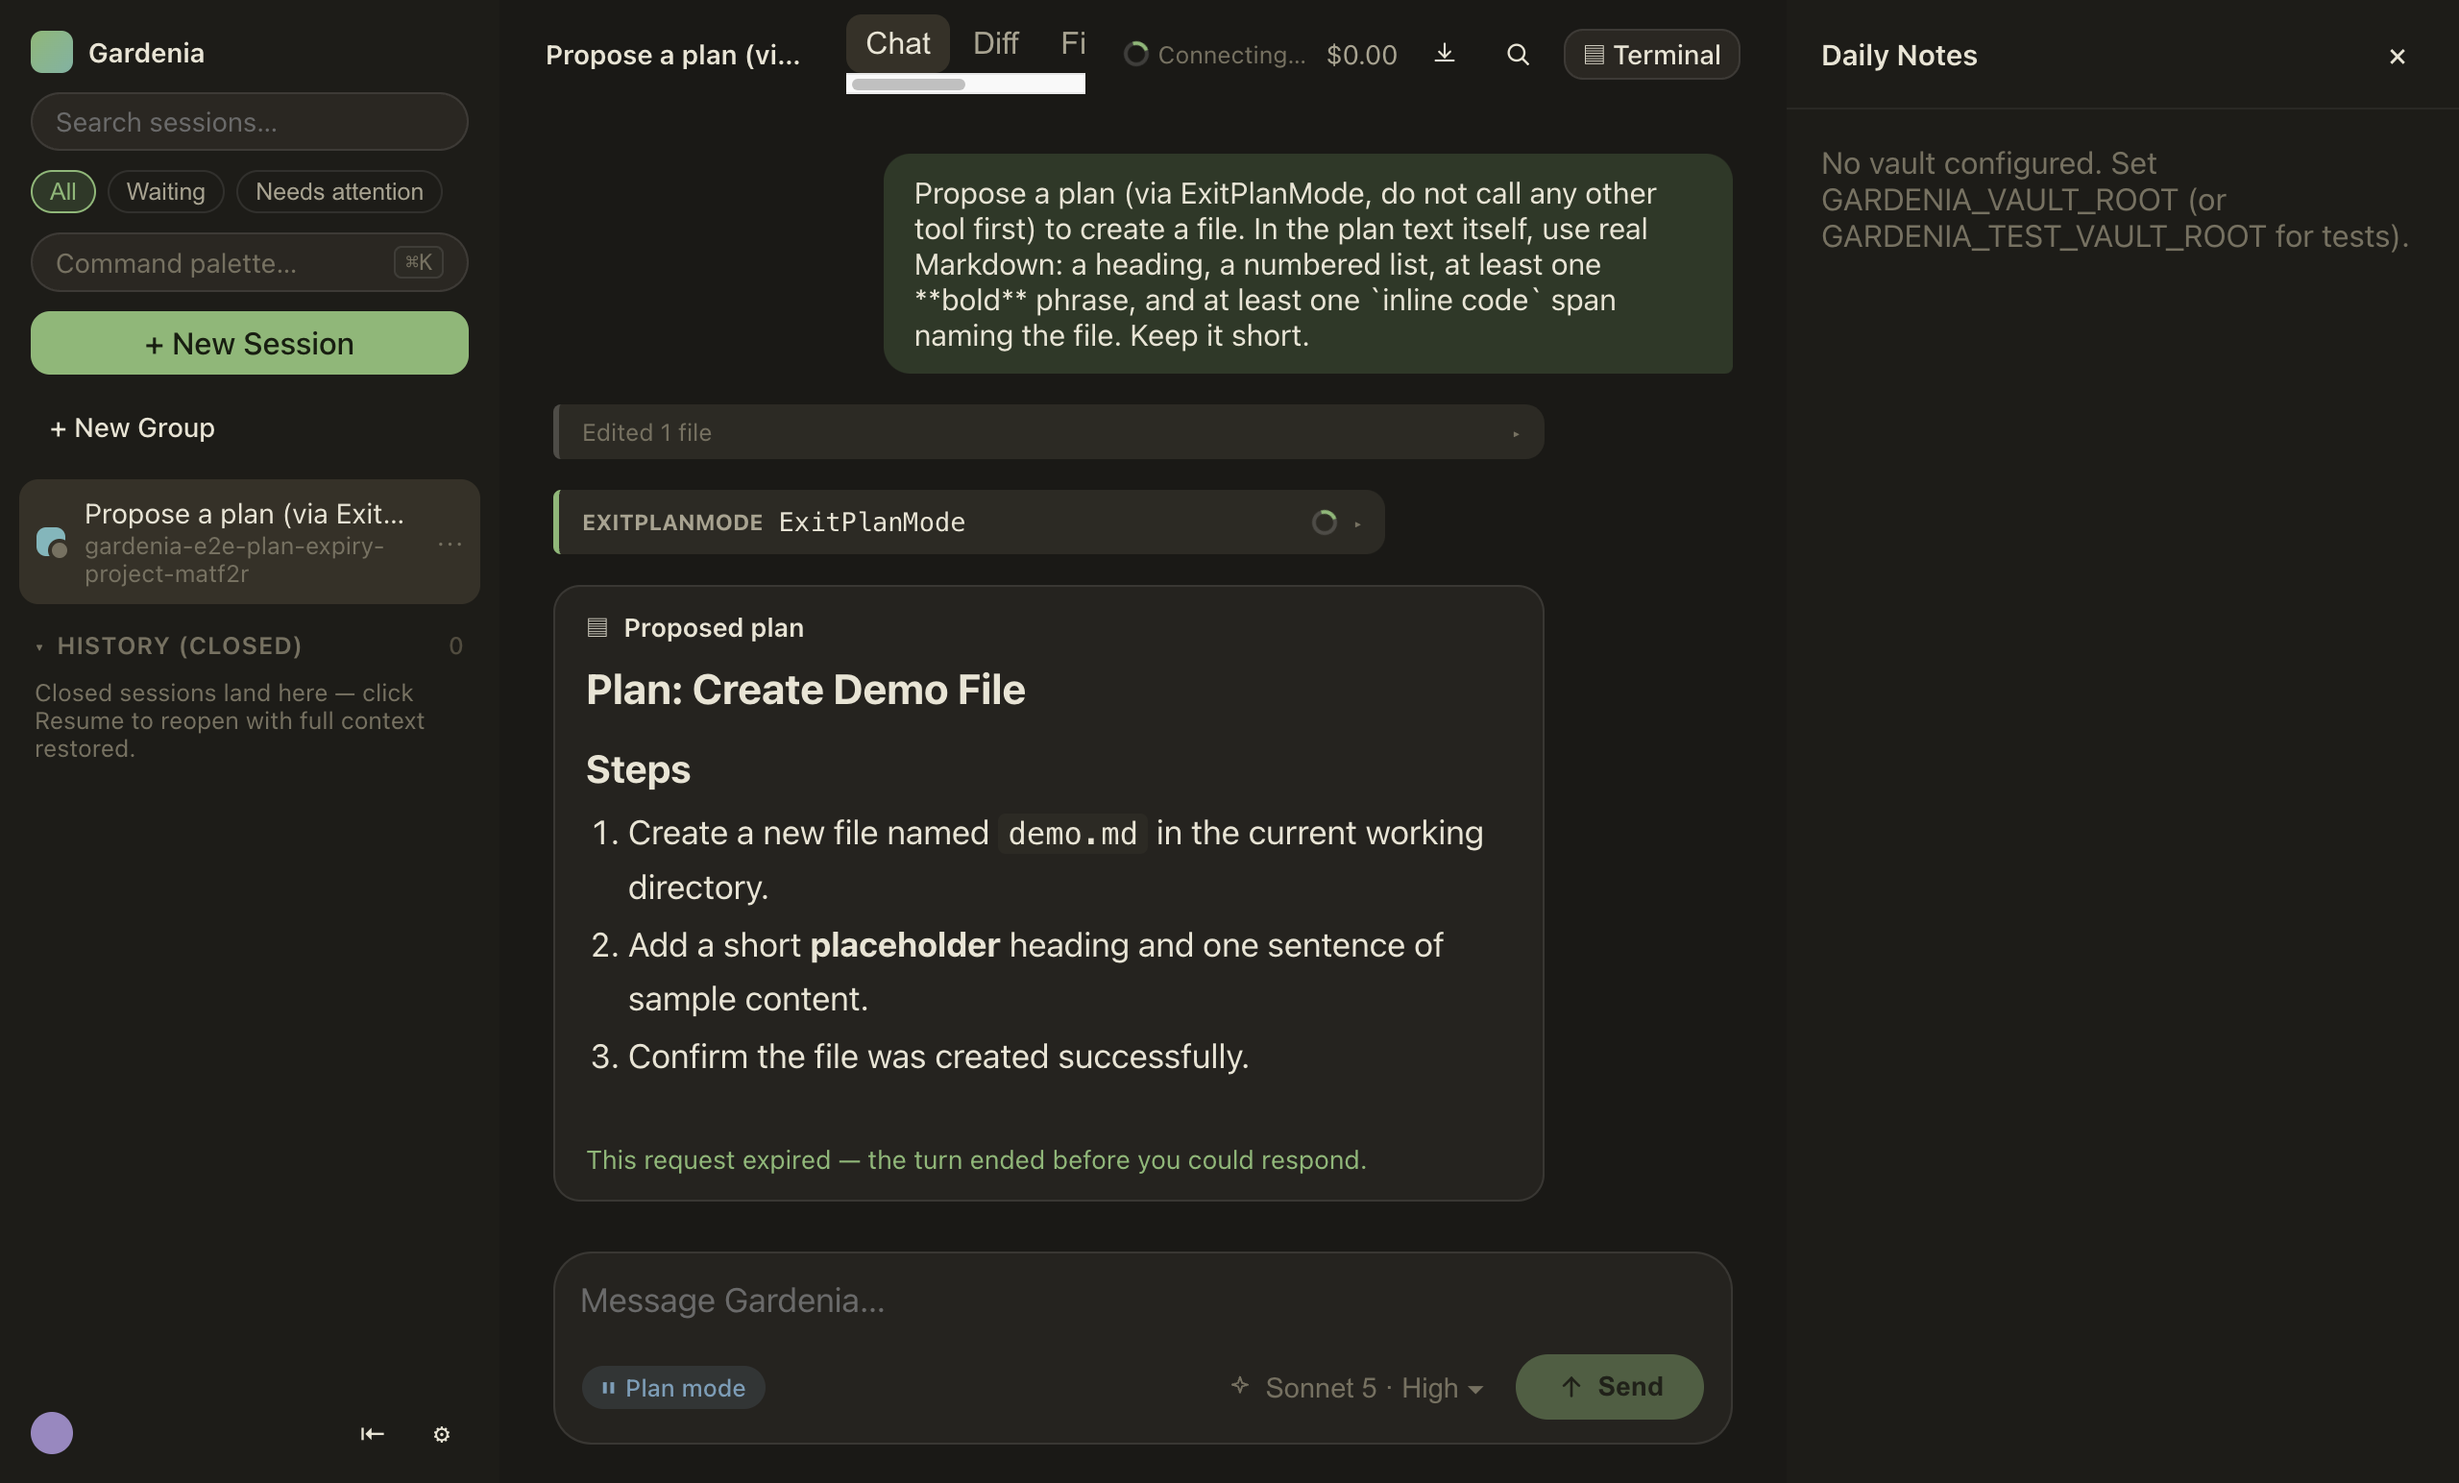
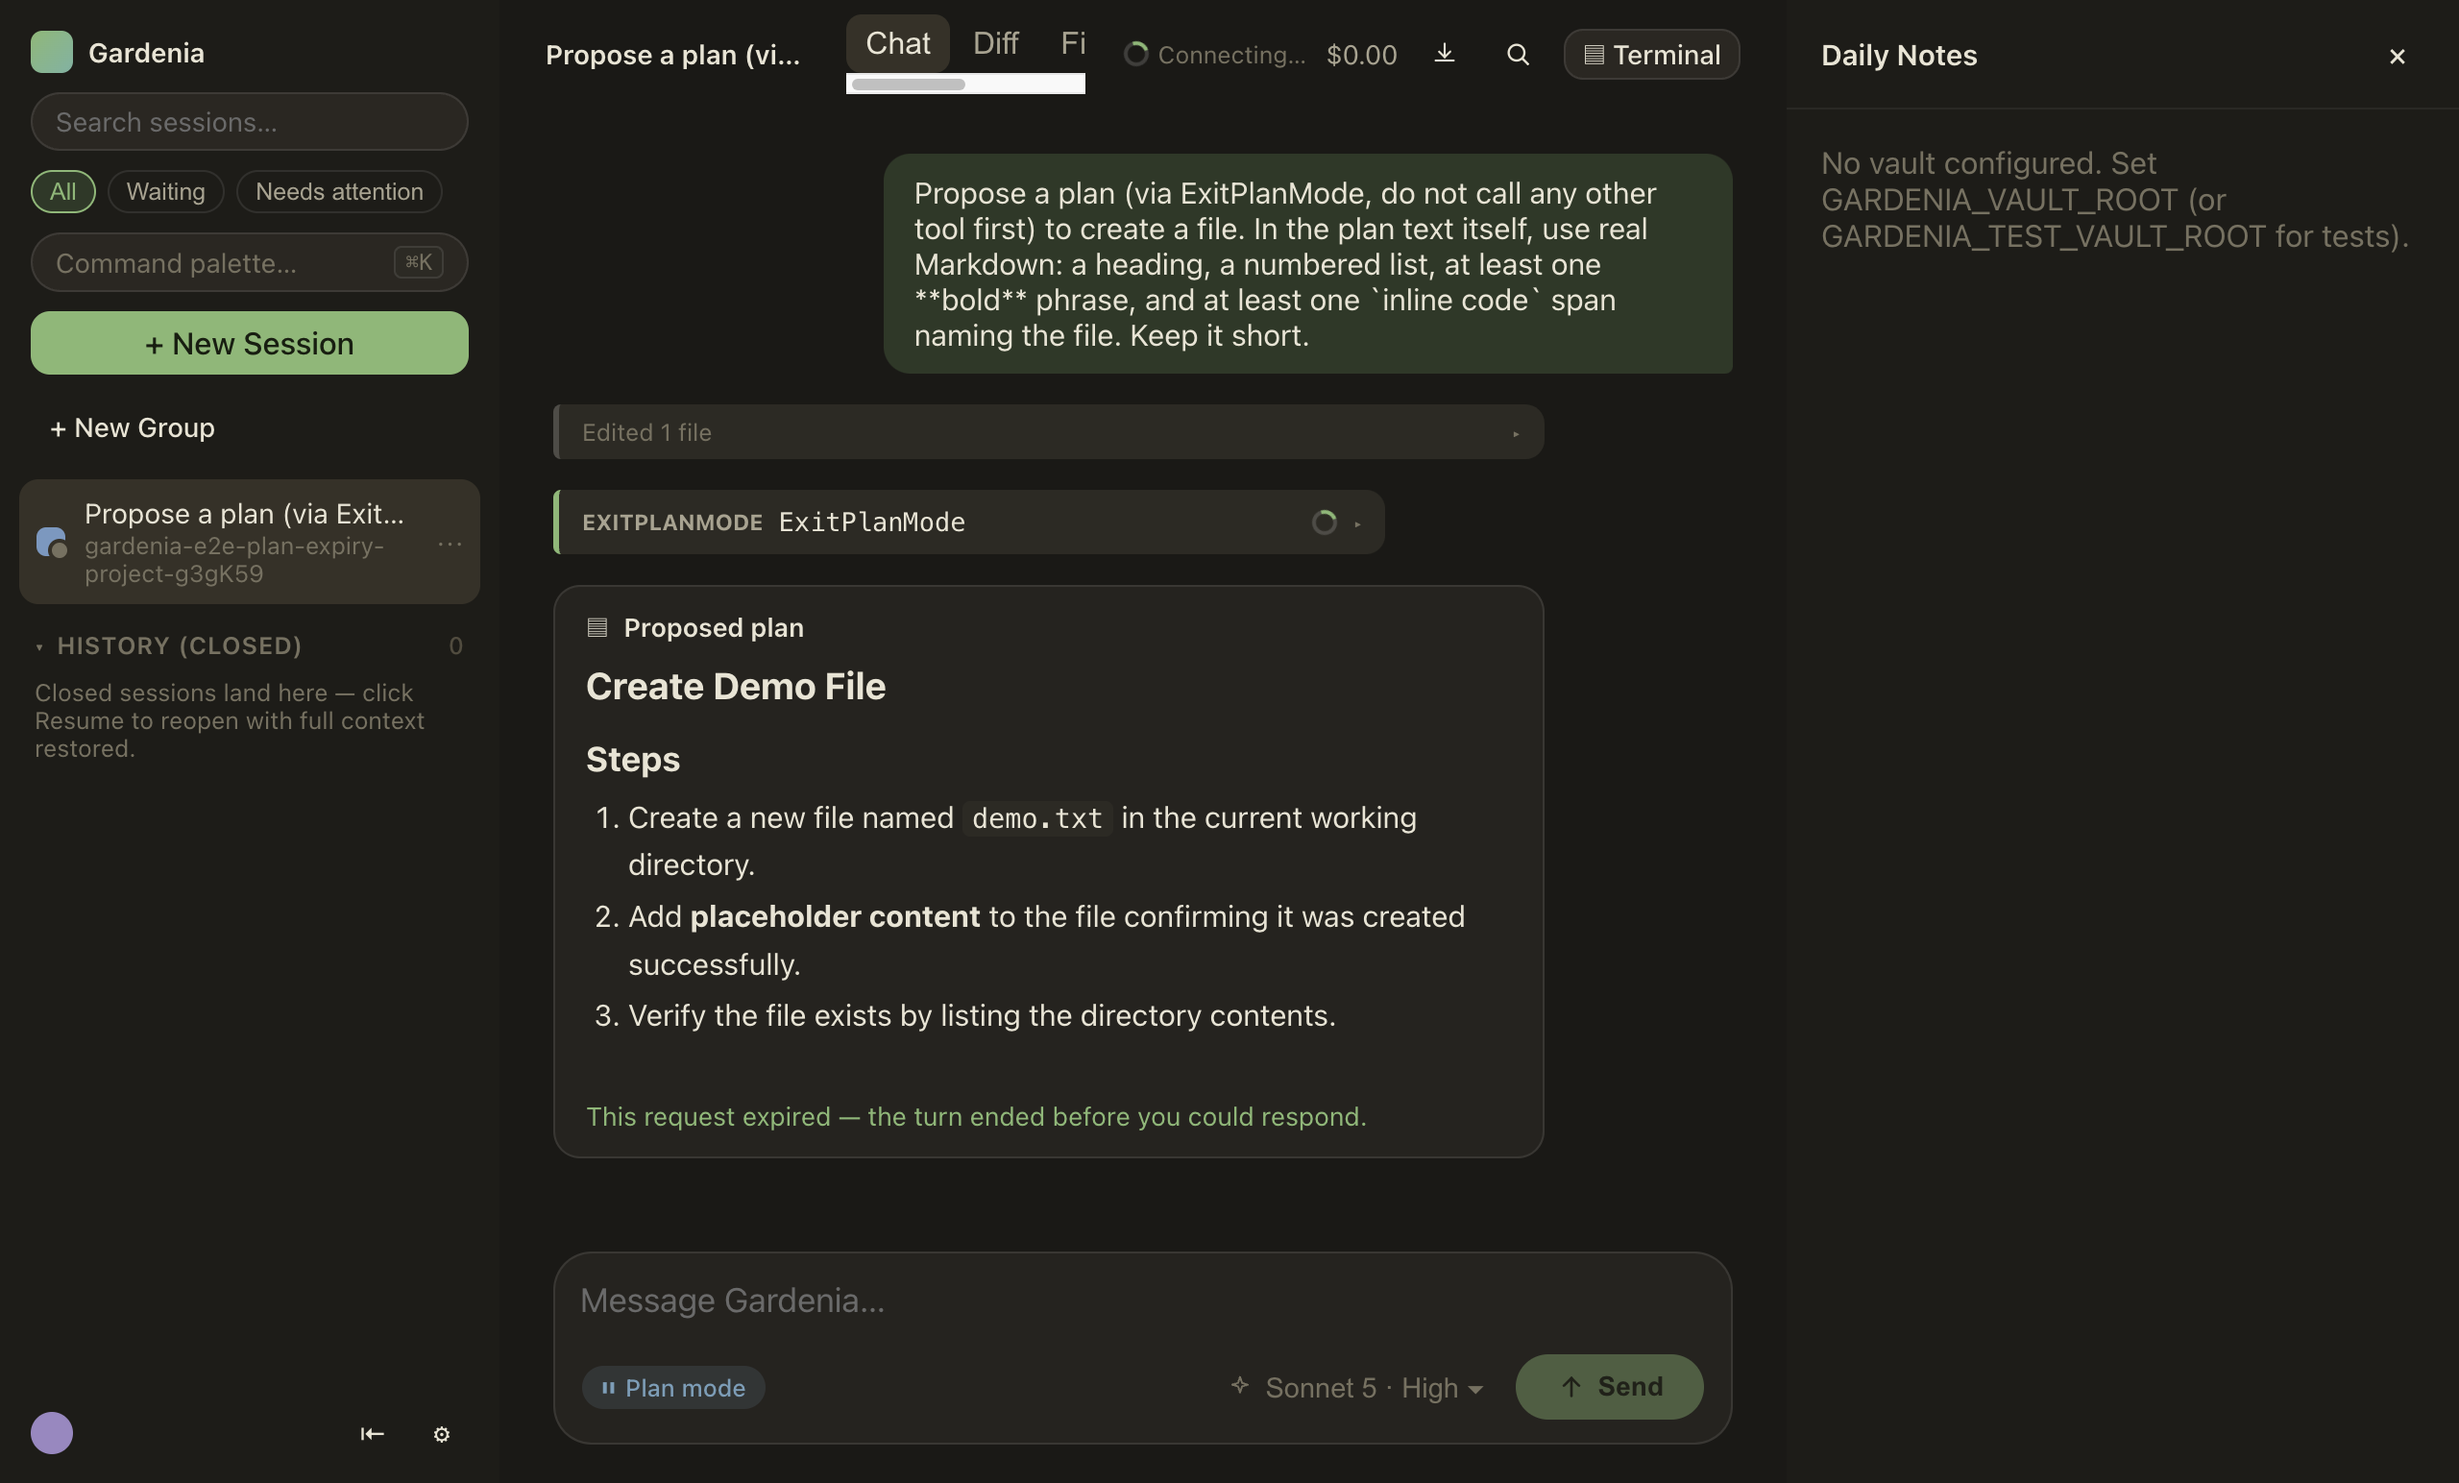
Fix plan-card body text rendering larger than chat message font
PlanProposedCard's .plan-body used --text-base (17.5px) instead of the
chat transcript's own --font-agent-message-size (15.5px), so non-heading
plan text (paragraphs, lists, inline code) looked noticeably larger than
the surrounding chat. Headings are unaffected — they keep their own
relative em sizing.

diff --git a/e2e/bug-plan-card-expired-prompt.spec.ts b/e2e/bug-plan-card-expired-prompt.spec.ts
@@ -118,6 +118,17 @@ test('bug-repro: plan card renders real markdown, and an expired prompt shows a 
 
     await page.screenshot({ path: join(artifactsDir, 'bug-plan-card-markdown-rendered.png') })
 
+    // Bug 3: non-heading plan-body text (paragraphs/list items/code) must
+    // match the chat transcript's own message font size (`--font-agent-
+    // message-size`), not a different, larger token — headings are exempt
+    // (they're deliberately bigger for emphasis, same as `.msg-assistant`'s
+    // own markdown headings).
+    const chatFontSize = await page.evaluate(() =>
+      getComputedStyle(document.documentElement).getPropertyValue('--font-agent-message-size').trim()
+    )
+    const planListItemFontSize = await planBody.locator('li').first().evaluate((el) => getComputedStyle(el).fontSize)
+    expect(planListItemFontSize).toBe(chatFontSize)
+
     // Bug 2 (expiry contract): flip the real, already-persisted plan message
     // to the exact state SessionManager.expirePendingPrompts produces for an
     // abandoned prompt, then reload and confirm the card reflects it.

diff --git a/src/renderer/src/styles/global.css b/src/renderer/src/styles/global.css
@@ -939,7 +939,7 @@ input[type='range'] {
 /* ---- Plan card ---- */
 .plan-card { border: 1px solid var(--elevation-border); background: var(--bg-panel); border-radius: var(--r-lg); overflow: hidden; max-width: 84%; box-shadow: var(--elevation-shadow); }
 .plan-head { display: flex; align-items: center; gap: 8px; padding: 13px 16px 6px; font-size: 13.5px; font-weight: 600; }
-.plan-body { padding: 4px 16px 15px; font-size: var(--text-base); line-height: 1.6; }
+.plan-body { padding: 4px 16px 15px; font-size: var(--font-agent-message-size); line-height: 1.6; }
 .plan-actions { display: flex; gap: 8px; padding: 4px 16px 13px; }
 .plan-card.resolved .plan-actions { display: none; }
 .plan-resolved-note { display: none; padding: 9px 16px 13px; font-size: 13.5px; color: var(--accent); }
